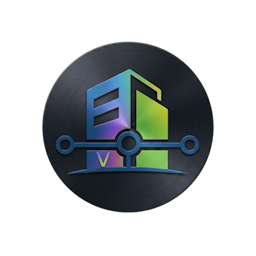
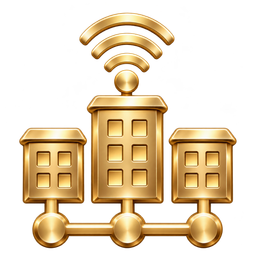
Release 1.6.5: gold Engelsoft Beacon branding

diff --git a/custom_components/bepacom/const.py b/custom_components/bepacom/const.py
@@ -3,7 +3,7 @@
 from datetime import timedelta
 
 DOMAIN = "bepacom"
-VERSION = "1.6.4"
+VERSION = "1.6.5"
 CONF_ENTITY_OVERRIDES = "entity_overrides"
 CONF_VIRTUAL_ENTITIES = "virtual_entities"
 CONF_PUSH_VALUE_LOGGING = "push_value_logging"

diff --git a/RELEASE_NOTES.md b/RELEASE_NOTES.md
@@ -1,9 +1,7 @@
-# Engelsoft Beacon BACnet/IP 1.6.4
+# Engelsoft Beacon BACnet/IP 1.6.5
 
-## 1.6.4 - 2026-11-05
+## 1.6.5 - 2026-11-05
 
-- Lead installation instructions with the built-in Marketplace on Home Assistant 2026.11+, including catalog search and Add from link; retain HACS guidance for older supported versions.
-- Improve English Explorer translations and language-aware live dashboard date and number formatting.
-- Refine the light background and align header action buttons.
-- Clean up pending Protocol V2 commands on send failures, cancellation and disconnects without retrying ambiguously delivered writes.
-- Preserve administrator authorization for all twelve Explorer WebSocket commands.
+- Introduce a polished gold Beacon icon matching the Engelsoft integration family.
+- Ship transparent standard, high-resolution, light and dark brand assets for Home Assistant and the Marketplace.
+- Add the new artwork and a centered product header to the README.

diff --git a/README.md b/README.md
@@ -1,6 +1,12 @@
-# Engelsoft Beacon BACnet/IP for Home Assistant
+<p align="center">
+  <img src="brand/icon@2x.png" alt="Engelsoft Beacon: gold buildings connected by a BACnet network with a beacon signal" width="200" height="200">
+</p>
 
-![Version](https://img.shields.io/badge/Version-1.6.4-gold)
+<h1 align="center">Engelsoft Beacon BACnet/IP</h1>
+
+<p align="center"><strong>Your building. Connected.</strong><br>Dedicated BACnet communication. A polished Home Assistant experience.</p>
+
+![Version](https://img.shields.io/badge/Version-1.6.5-gold)
 ![Home Assistant](https://img.shields.io/badge/Home%20Assistant-2026.6.0%2B-41BDF5)
 ![Marketplace](https://img.shields.io/badge/Home%20Assistant-Marketplace-41BDF5)
 [![GitHub Downloads](https://img.shields.io/github/downloads/engelsofta/ha-bepacom-bacnet/total?label=Downloads)](https://github.com/engelsofta/ha-bepacom-bacnet/releases)

diff --git a/custom_components/bepacom/brand/README.md b/custom_components/bepacom/brand/README.md
@@ -1,5 +1,3 @@
-# Local integration brand assets
+# Beacon brand assets
 
-The integration uses the flat icon.png and logo.png files in this folder.
-Do not add a separate brand manifest here: HACS submission checks require one
-unambiguous integration manifest under custom_components/.
+Transparent gold artwork for Engelsoft Beacon BACnet/IP. Icons are 256×256 and 512×512 PNGs. The same mark is provided as logo and in dark variants. Local integration assets live directly in this folder, without an additional manifest. Repository URLs retain their existing names for compatibility.

diff --git a/brand/README.md b/brand/README.md
@@ -1,6 +1,3 @@
-<!-- Added by engelsofta in 2026 for Engelsoft Beacon BACnet/IP. -->
+# Beacon brand assets
 
-# HACS brand assets
-
-`icon.png` is the repository-level HACS icon for Engelsoft Beacon BACnet/IP.
-The same artwork is also shipped with the Home Assistant integration.
+Transparent gold artwork for Engelsoft Beacon BACnet/IP. Icons are 256×256 and 512×512 PNGs. The same mark is provided as logo and in dark variants. Local integration assets live directly in this folder, without an additional manifest. Repository URLs retain their existing names for compatibility.

diff --git a/CHANGELOG.md b/CHANGELOG.md
@@ -1,5 +1,11 @@
 # Changelog
 
+## 1.6.5 - 2026-11-05
+
+- Introduce a polished gold Beacon icon matching the Engelsoft integration family.
+- Ship transparent standard, high-resolution, light and dark brand assets for Home Assistant and the Marketplace.
+- Add the new artwork and a centered product header to the README.
+
 ## 1.6.4 - 2026-11-05
 
 - Lead installation instructions with the built-in Marketplace on Home Assistant 2026.11+, including catalog search and Add from link; retain HACS guidance for older supported versions.
